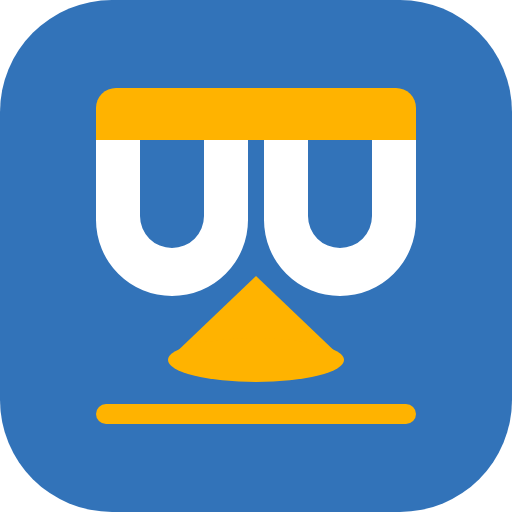
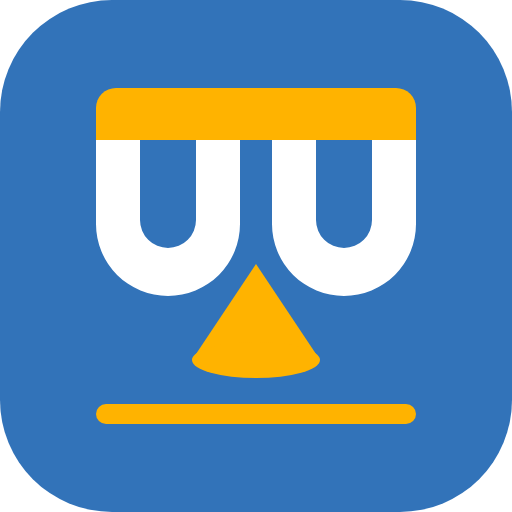
Narrow the spotlight and widen the curtain gap

diff --git a/index.html b/index.html
@@ -216,9 +216,9 @@
         <svg class="boot-icon" viewBox="0 0 128 128" width="72" height="72" aria-hidden="true">
           <rect width="128" height="128" rx="28" fill="#3273b9"/>
           <path fill="#ffb300" d="M24 35v-8a5 5 0 0 1 5-5h70a5 5 0 0 1 5 5v8z"/>
-          <path fill="#fff" fill-rule="evenodd" d="M24 35h38v20a19 19 0 0 1-38 0zm11 0v19a8 8 0 0 0 16 0v-19zM66 35h38v20a19 19 0 0 1-38 0zm11 0v19a8 8 0 0 0 16 0v-19z"/>
-          <path fill="#ffb300" d="M64 69 42 90h44z"/>
-          <ellipse cx="64" cy="90" rx="22" ry="5.5" fill="#ffb300"/>
+          <path fill="#fff" fill-rule="evenodd" d="M24 35h36v21a18 18 0 0 1-36 0zm11 0v20a7 7 0 0 0 14 0v-20zM68 35h36v21a18 18 0 0 1-36 0zm11 0v20a7 7 0 0 0 14 0v-20z"/>
+          <path fill="#ffb300" d="M64 66 48 90h32z"/>
+          <ellipse cx="64" cy="90" rx="16" ry="4.5" fill="#ffb300"/>
           <rect x="24" y="101" width="80" height="5" rx="2.5" fill="#ffb300"/>
         </svg>
         <div class="boot-title">Binette</div>
